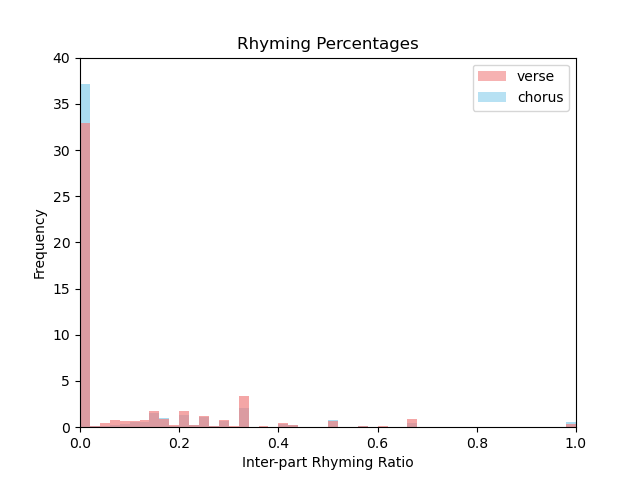
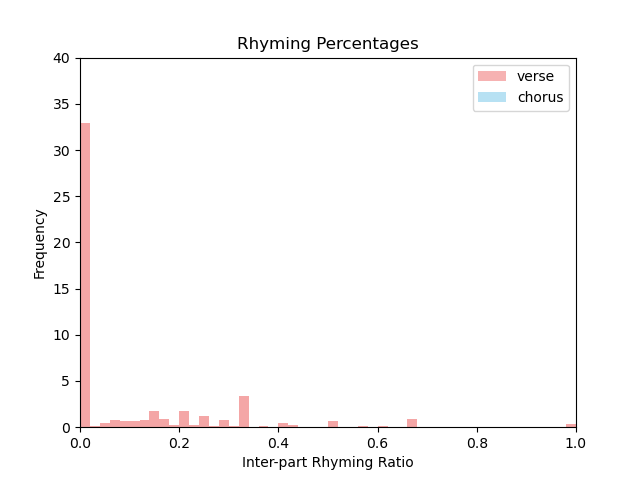
new style for histograms

diff --git a/exploration/data_exploration.py b/exploration/data_exploration.py
@@ -1,5 +1,6 @@
 import re
 import matplotlib.pyplot as plt
+import numpy as np
 from torch.optim import AdamW
 from torch.nn import CrossEntropyLoss
 from torch import nn
@@ -7,6 +8,7 @@ import torch
 import pandas as pd
 from datasets import Dataset
 from utils.preprocessing import get_parsed_data, get_data
+import seaborn as sns
 import os
 import pronouncing
 os.environ["KMP_DUPLICATE_LIB_OK"] = "TRUE"
@@ -37,7 +39,7 @@ def number_of_words_plot(data):
     plt.ylabel("Frequency")
     plt.title("Histogram of verses")
     plt.legend()
-    plt.savefig("../../plots/word_count_hist.png")
+    plt.savefig("../plots/word_count_hist.png")
     # plt.show()
 
 
@@ -163,6 +165,7 @@ def calculate_repetition_score(data):
     plt.savefig("../plots/repetitiveness_score.png")
     plt.close(fig)
 
+# def calculate_unique_words(data):
 
 def rhyme_density(text):
     def words_rhyme(word1, word2):
@@ -192,8 +195,7 @@ def calculate_rhyme_avg(data):
             if song_part == 'verse':
                 verse_data.append(rhyme_density(lyrics))
 
-
-    plt.hist(chorus_data, bins=50, alpha=0.7, color='skyblue', density=True)
+    plt.hist(chorus_data, bins=50, alpha=1.0, color='white', density=True)
     plt.hist(verse_data, bins=50, alpha=0.7, color='lightcoral', density=True)  # Removed 'label'
 
     # Set axis limits
@@ -214,10 +216,10 @@ def calculate_rhyme_avg(data):
 if __name__ == '__main__':
     # 8. precision and recall (Tomer)
     # run_precision_and_recall()
-    # 1. number_of_words_plot(data)
-    number_of_row_plot(data)
-    calculate_repetition_score(data)
-    calculate_rhyme_avg(data)
+    number_of_words_plot(data)
+    # number_of_row_plot(data)
+    # calculate_repetition_score(data)
+    # calculate_rhyme_avg(data)
 
 # 2. nuber of tokens (Shaked)
 
